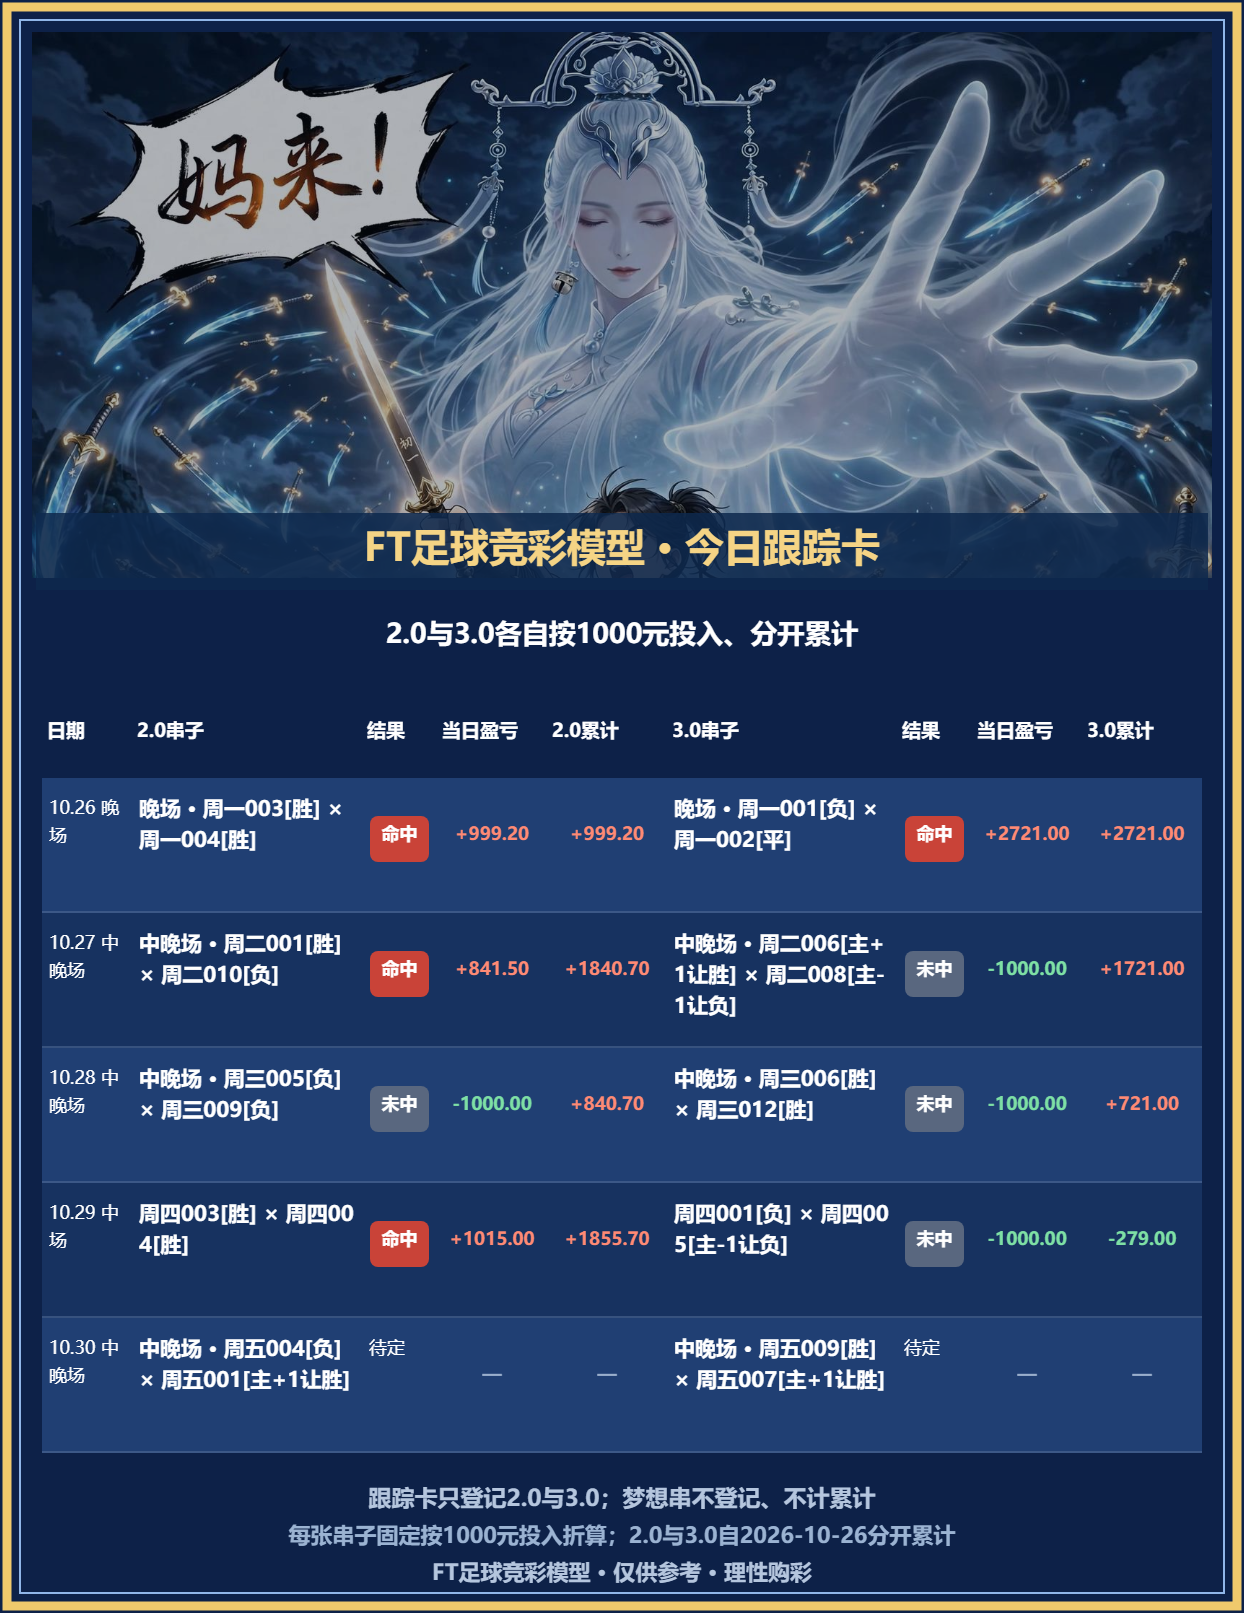
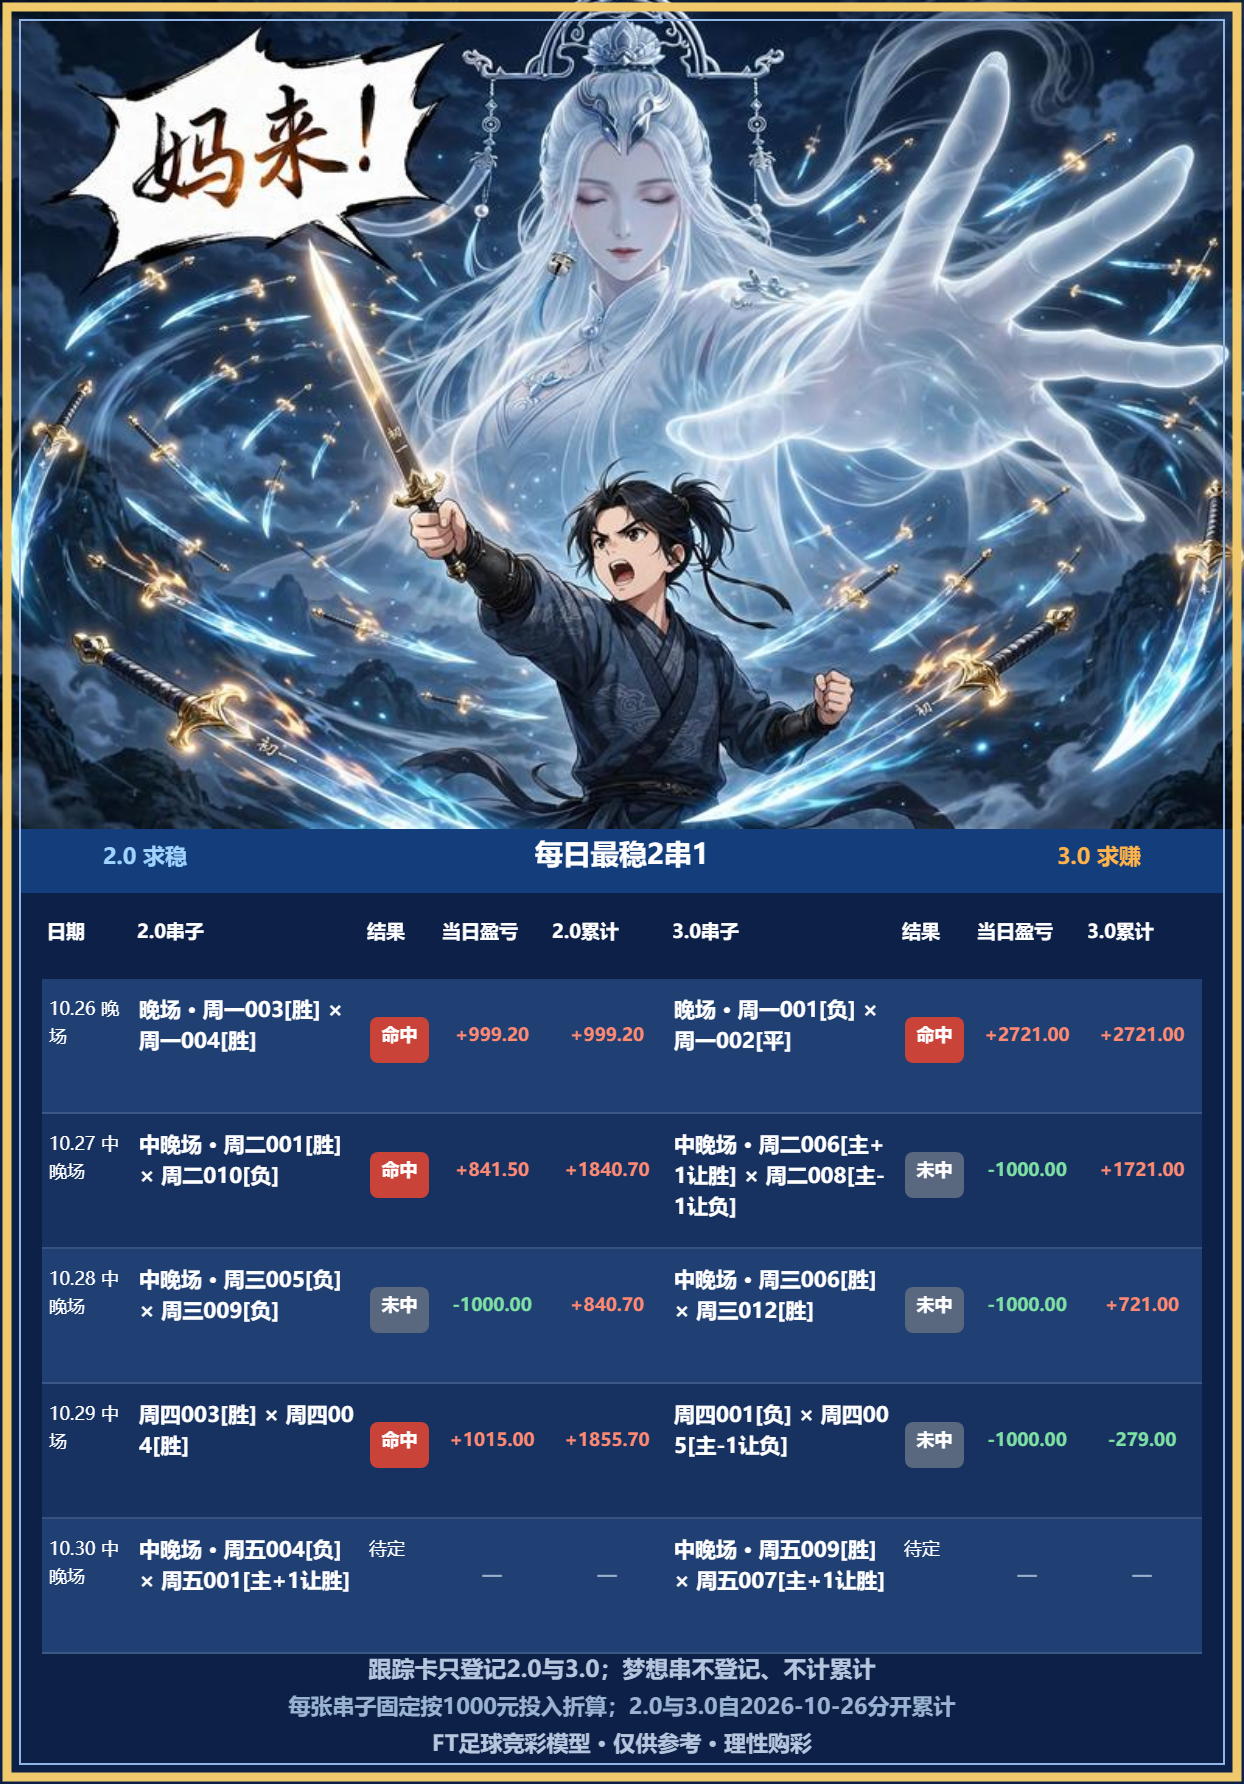
Show full Muse artwork on tracking cards

diff --git a/public/phone-v2.html b/public/phone-v2.html
@@ -1,7 +1,7 @@
 <!doctype html><html lang="zh-CN"><head><meta charset="utf-8"><meta name="viewport" content="width=device-width,initial-scale=1,viewport-fit=cover"><title>足球图片</title><style>
 *{box-sizing:border-box}body{margin:0;background:#edf4f1;color:#173d32;font-family:"Microsoft YaHei",sans-serif}main{max-width:720px;margin:auto;padding:12px}h1{margin:4px 0 6px;font-size:22px}.tip{margin:0 0 12px;color:#5d726a;font-size:13px}.card{margin-bottom:14px;padding:10px;background:#fff;border:1px solid #aac9bd;border-radius:6px}.head{display:flex;justify-content:space-between;margin-bottom:8px}.head strong{font-size:17px}.head span{font-size:12px;color:#667b73}img{display:block;width:100%;height:auto;border:1px solid #b7cec5;background:#e5eeeb}button{display:block;width:100%;margin-top:9px;padding:13px 8px;border:0;border-radius:5px;background:#197751;color:#fff;font-size:16px;font-weight:700}button:disabled{background:#829b92}#status{padding:30px;text-align:center}
 </style></head><body><main><h1>足球四图</h1><p class="tip">点击绿色按钮，直接复制对应图片。</p><div id="cards"><div id="status">正在加载…</div></div></main><script>
-(async()=>{const cards=document.getElementById('cards'),version='20261030-fullmuse';try{const [today,review]=await Promise.all([fetch(`data/latest.json?v=${version}`,{cache:'no-store'}).then(r=>r.json()),fetch(`data/review-latest.json?v=${version}`,{cache:'no-store'}).then(r=>r.json())]);const items=[['推荐扫盘',today.date,`${today.date}-final-scan.png`],['今日跟踪',today.date,`${today.date}-final-tracking.png`],['复盘扫盘',review.date,`${review.date}-review-scan.png`],['复盘跟踪',review.date,`${review.date}-review-tracking.png`]];cards.textContent='';for(const [title,date,file] of items){const box=document.createElement('section');box.className='card';const preview=`cards/${file.replace('.png','-preview.jpg')}?v=${version}`,full=`cards/${file}?v=${version}`;box.innerHTML='<div class="head"><strong></strong><span></span></div><img loading="lazy" decoding="async"><button>点击复制图片</button>';box.querySelector('strong').textContent=title;box.querySelector('span').textContent=date;const img=box.querySelector('img'),button=box.querySelector('button');img.alt=`${date} ${title}`;img.src=preview;button.onclick=async()=>{const text=button.textContent;button.textContent='正在复制高清图…';button.disabled=true;try{if(!navigator.clipboard?.write||!window.ClipboardItem)throw Error();const response=await fetch(full+'?copy='+Date.now(),{cache:'no-store'});if(!response.ok)throw Error();const source=await response.blob();const png=source.type==='image/png'?source:new Blob([await source.arrayBuffer()],{type:'image/png'});await navigator.clipboard.write([new ClipboardItem({'image/png':png})]);button.textContent='✓ 已复制高清图'}catch{button.textContent='复制失败，请重试'}setTimeout(()=>{button.disabled=false;button.textContent=text},2500)};cards.append(box)}}catch{document.getElementById('status').textContent='加载失败，请刷新';}})();
+(async()=>{const cards=document.getElementById('cards'),version='20261030-muse-layout2';try{const [today,review]=await Promise.all([fetch(`data/latest.json?v=${version}`,{cache:'no-store'}).then(r=>r.json()),fetch(`data/review-latest.json?v=${version}`,{cache:'no-store'}).then(r=>r.json())]);const items=[['推荐扫盘',today.date,`${today.date}-final-scan.png`],['今日跟踪',today.date,`${today.date}-final-tracking.png`],['复盘扫盘',review.date,`${review.date}-review-scan.png`],['复盘跟踪',review.date,`${review.date}-review-tracking.png`]];cards.textContent='';for(const [title,date,file] of items){const box=document.createElement('section');box.className='card';const preview=`cards/${file.replace('.png','-preview.jpg')}?v=${version}`,full=`cards/${file}?v=${version}`;box.innerHTML='<div class="head"><strong></strong><span></span></div><img loading="lazy" decoding="async"><button>点击复制图片</button>';box.querySelector('strong').textContent=title;box.querySelector('span').textContent=date;const img=box.querySelector('img'),button=box.querySelector('button');img.alt=`${date} ${title}`;img.src=preview;button.onclick=async()=>{const text=button.textContent;button.textContent='正在复制高清图…';button.disabled=true;try{if(!navigator.clipboard?.write||!window.ClipboardItem)throw Error();const response=await fetch(full+'?copy='+Date.now(),{cache:'no-store'});if(!response.ok)throw Error();const source=await response.blob();const png=source.type==='image/png'?source:new Blob([await source.arrayBuffer()],{type:'image/png'});await navigator.clipboard.write([new ClipboardItem({'image/png':png})]);button.textContent='✓ 已复制高清图'}catch{button.textContent='复制失败，请重试'}setTimeout(()=>{button.disabled=false;button.textContent=text},2500)};cards.append(box)}}catch{document.getElementById('status').textContent='加载失败，请刷新';}})();
 </script><script>
 const refreshImages=()=>document.querySelectorAll('img:not([data-fresh])').forEach(img=>{img.dataset.fresh='1';const url=new URL(img.src);url.searchParams.set('v','20261030-final');img.src=url});
 new MutationObserver(refreshImages).observe(document.getElementById('cards'),{childList:true,subtree:true});refreshImages();

diff --git a/public/muse-cards.js b/public/muse-cards.js
@@ -67,14 +67,13 @@
     const trackingKind=r=>{const s=[r.name,r.type,r.passType,r.trackingTier,r.category].filter(Boolean).join(' ');if(/全进球数|进球数梦想/.test(s)&&(/4串1/.test(s)||Number(r?.legs?.length)===4))return 'goals4';if(/全进球数|进球数梦想/.test(s)&&(/3串1/.test(s)||Number(r?.legs?.length)===3))return 'goals3';const m=s.match(/(?:^|[^\d.])([23])[.]0(?:版|档|\s|[｜|·：:]|$)/);return m?`core${m[1]}`:null};
     const session=r=>r?[r.sessionLabel,r.batchLabel,r.session,r.batch?.label,r.batch?.name,r.name].filter(v=>typeof v==='string').join(' ').match(/中晚场|早场|中场|晚场/)?.[0]||'':'';
     const order=rs=>rs.map((r,i)=>({r,i})).sort((a,b)=>String(a.r.date||report.date).localeCompare(String(b.r.date||report.date))||a.i-b.i).map(x=>x.r);
-    const left=order(raw.filter(r=>trackingKind(r)==='core2')),right=order(raw.filter(r=>trackingKind(r)==='core3'));const tracked=[...left,...right],sessions=['早场','中场','晚场'];const count=reviewMode?Math.max(left.length,right.length):Math.max(left.length,right.length,1),heroH=590,tableY=698,height=tableY+80+count*135+160;
+    const left=order(raw.filter(r=>trackingKind(r)==='core2')),right=order(raw.filter(r=>trackingKind(r)==='core3'));const tracked=[...left,...right],sessions=['早场','中场','晚场'];const count=reviewMode?Math.max(left.length,right.length):Math.max(left.length,right.length,1),heroH=829,tableY=899,height=tableY+80+count*135+130;
     const cardWidth=1244,tableWidth=1160,tableX=42;const {canvas,ctx}=setup(height,cardWidth);ctx.fillStyle='#0d2148';ctx.fillRect(0,0,cardWidth,height);
-    // Keep the whole reference artwork inside the border, including its left speech bubble.
-    if(asset.naturalWidth){const artX=32,artY=32,artW=cardWidth-64,artH=artW*asset.naturalHeight/asset.naturalWidth;ctx.save();ctx.beginPath();ctx.rect(artX,artY,artW,heroH-44);ctx.clip();ctx.drawImage(asset,artX,artY,artW,artH);ctx.fillStyle='rgba(7,16,32,.32)';ctx.fillRect(artX,artY,artW,heroH-44);ctx.restore()}
-    ctx.fillStyle='rgba(14,41,77,.86)';ctx.fillRect(36,heroH-77,cardWidth-72,77);centered(ctx,TITLE+' · '+(reviewMode?'复盘跟踪卡':'今日跟踪卡'),heroH-59,39,'#f5d485');
+    // MUSE layout: show the complete artwork first, then start the tracking table.
+    if(asset.naturalWidth){const artX=0,artY=0,artW=cardWidth,artH=artW*asset.naturalHeight/asset.naturalWidth;ctx.drawImage(asset,artX,artY,artW,artH)}
     const scaledNet=r=>{const recorded=Number(r?.trackingSettlement?.net);if(Number.isFinite(recorded))return recorded;const cost=Number(r?.totalCost??r?.cost??r?.exampleStake),returned=Number(r?.returned??r?.exampleReturn);return Number.isFinite(cost)&&cost>0&&Number.isFinite(returned)?returned/cost*1000-1000:null};
     const settled=tracked.map(scaledNet).filter(Number.isFinite),dayNet=settled.reduce((a,b)=>a+b,0),dayStake=settled.length*1000,dayReturn=dayStake+dayNet;
-    ctx.fillStyle='#0d2148';ctx.fillRect(tableX,heroH+10,tableWidth,88);centered(ctx,reviewMode?`仅登记2.0和3.0 · 每张投入1000元 · 累计投入${dayStake.toFixed(0)}元 · 盈亏${dayNet>=0?'+':''}${dayNet.toFixed(2)}元`:'2.0与3.0各自按1000元投入、分开累计',heroH+32,27);
+    ctx.fillStyle='#143d7b';ctx.fillRect(20,heroH,cardWidth-40,64);centeredCell(ctx,'2.0 求稳',20,250,heroH+18,22,'#9fd4ff',true);centeredCell(ctx,reviewMode?'每日最稳2串1 · 复盘':'每日最稳2串1',270,704,heroH+14,28,'#fff',true);centeredCell(ctx,'3.0 求赚',974,250,heroH+18,22,'#ffb34b',true);
     const widths=[90,230,75,110,120,230,75,110,120],heads=['日期','2.0串子','结果','当日盈亏','2.0累计','3.0串子','结果','当日盈亏','3.0累计'];ctx.fillStyle='#0d2148';ctx.fillRect(tableX,tableY,tableWidth,80);let x=tableX;heads.forEach((s,i)=>{text(ctx,s,x+5,tableY+25,widths[i]-8,19,'#fff',true);x+=widths[i]});
     const cumulative=new Map();for(const group of [left,right]){let running=0;order(group).forEach(r=>{const net=scaledNet(r);if(Number.isFinite(net))running+=net;cumulative.set(r,Number.isFinite(net)?running:null)})}
     function values(r,i){if(!r)return [`${sessions[i]||'待定'} · 待定`,'待定','—','—'];const amount=scaledNet(r),historical=Boolean(r.date&&r.date!==report.date);return [[session(r)||(!historical?sessions[Math.max(0,i-1)]:'')||'',selections(r)||r.name].filter(Boolean).join(' · '),(reviewMode||historical)?(r.status||r.result||'待定'):'待定',money(amount),cumulative.get(r)==null?'—':money(cumulative.get(r))]}
